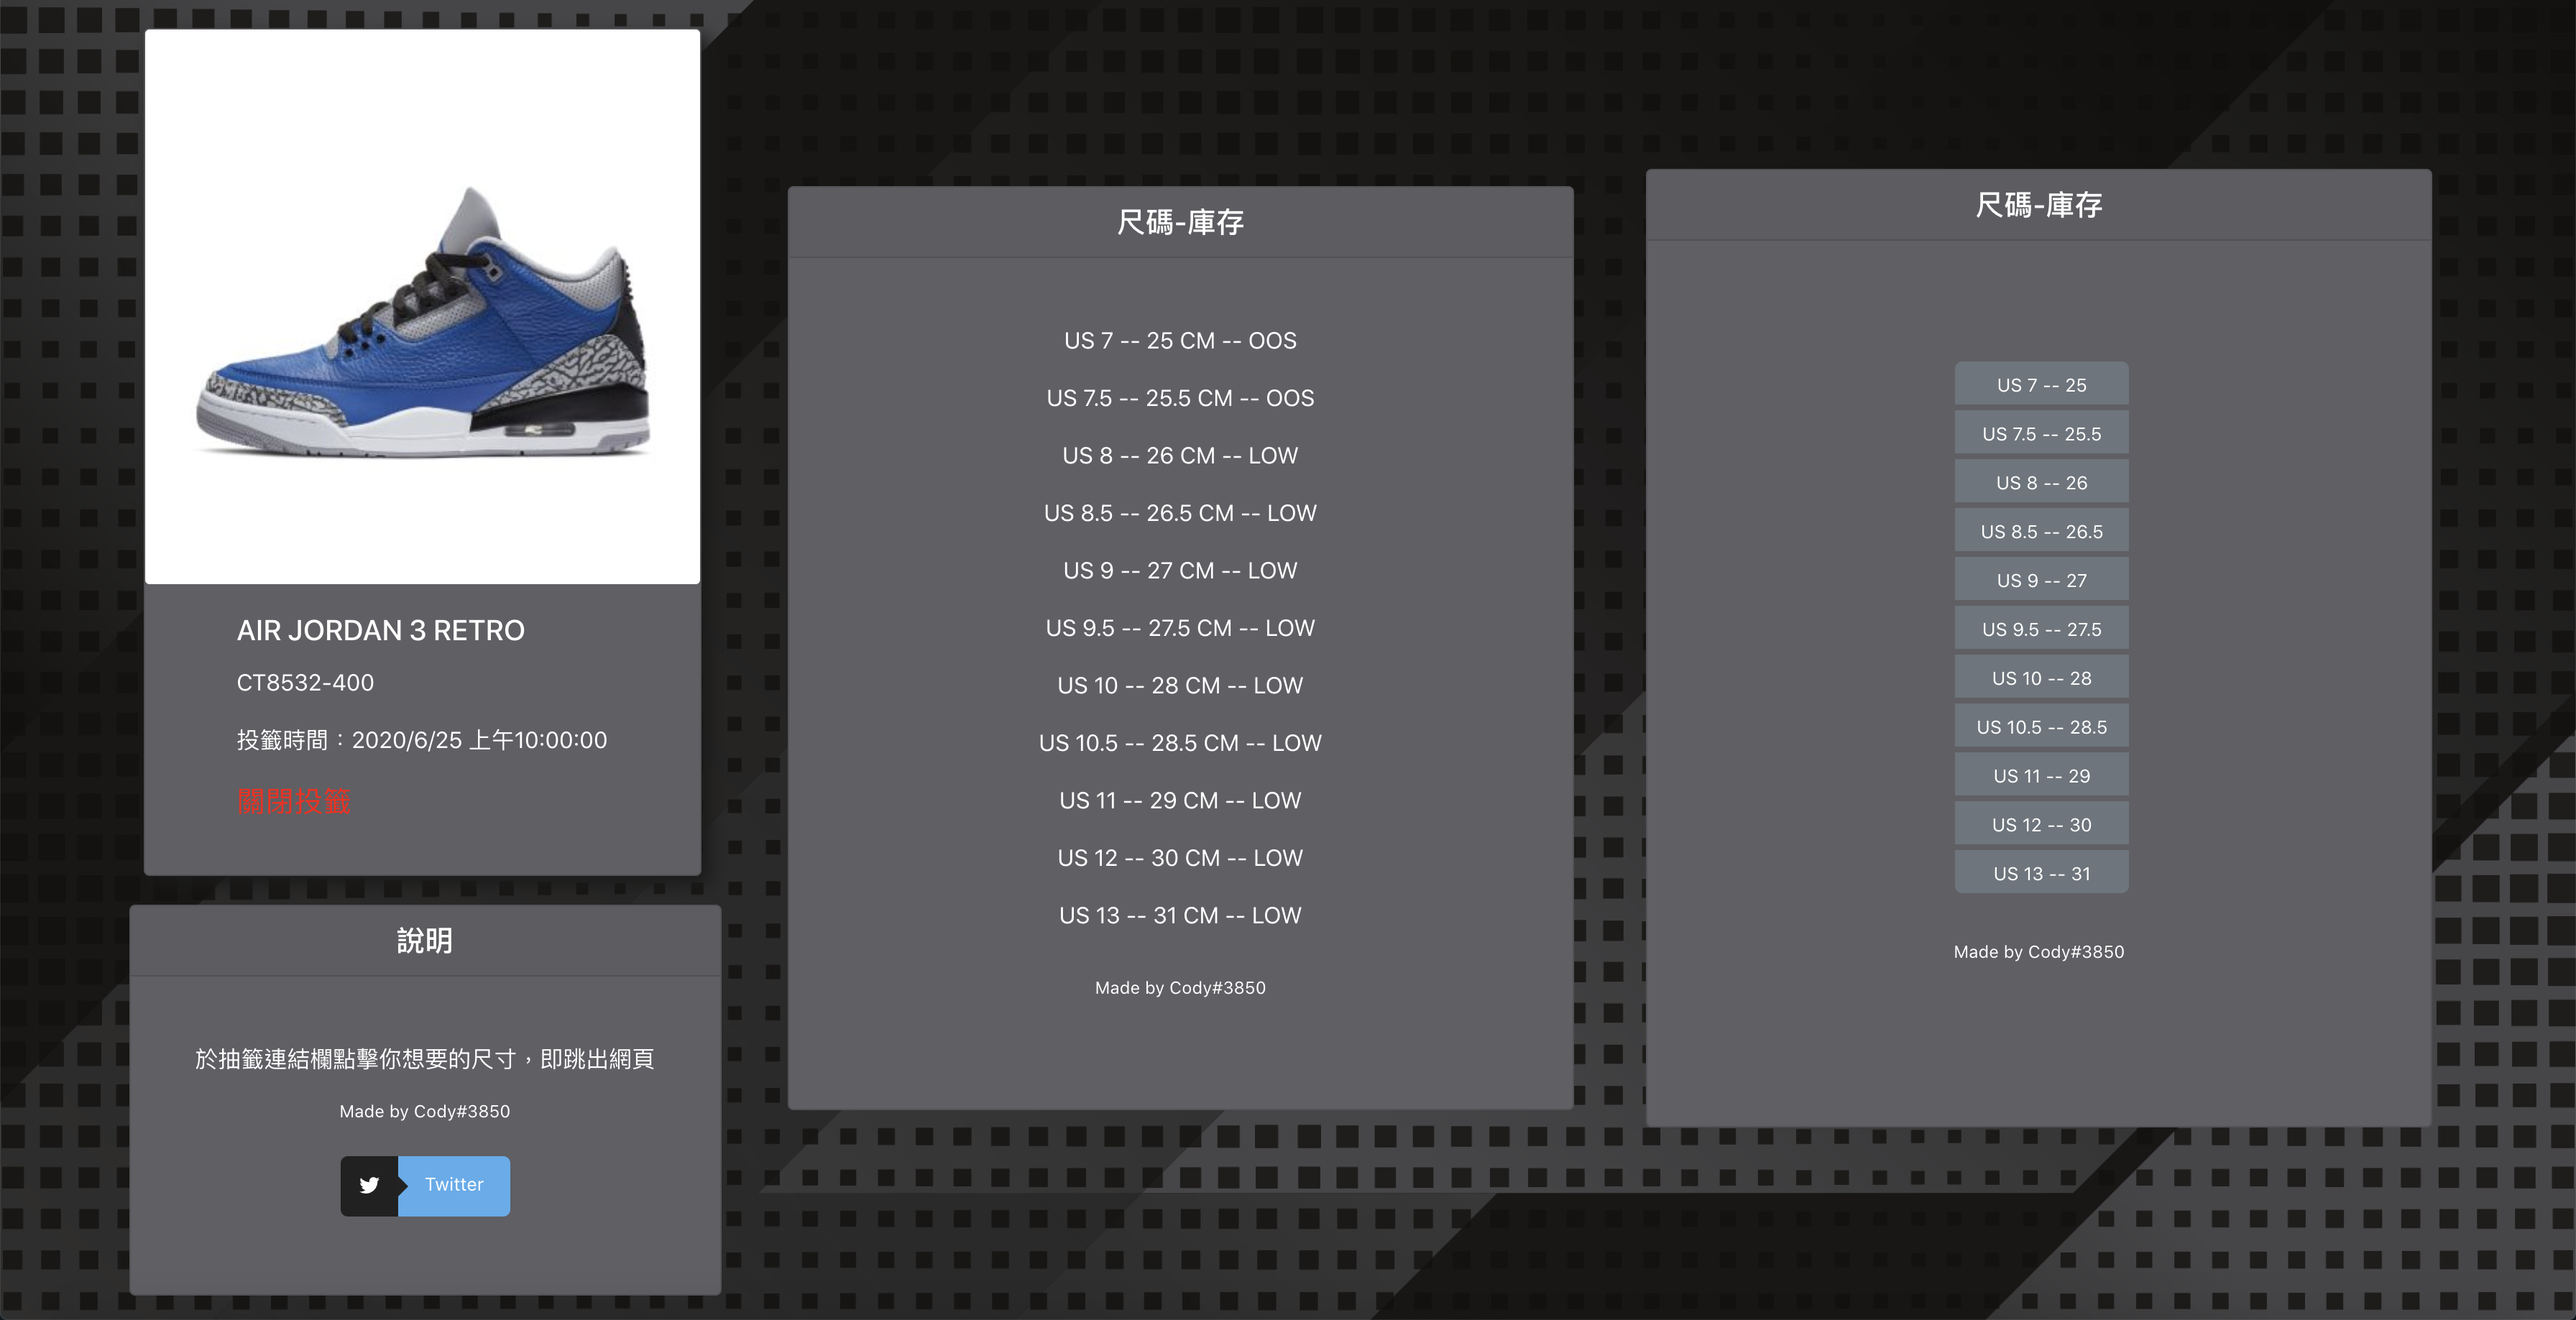
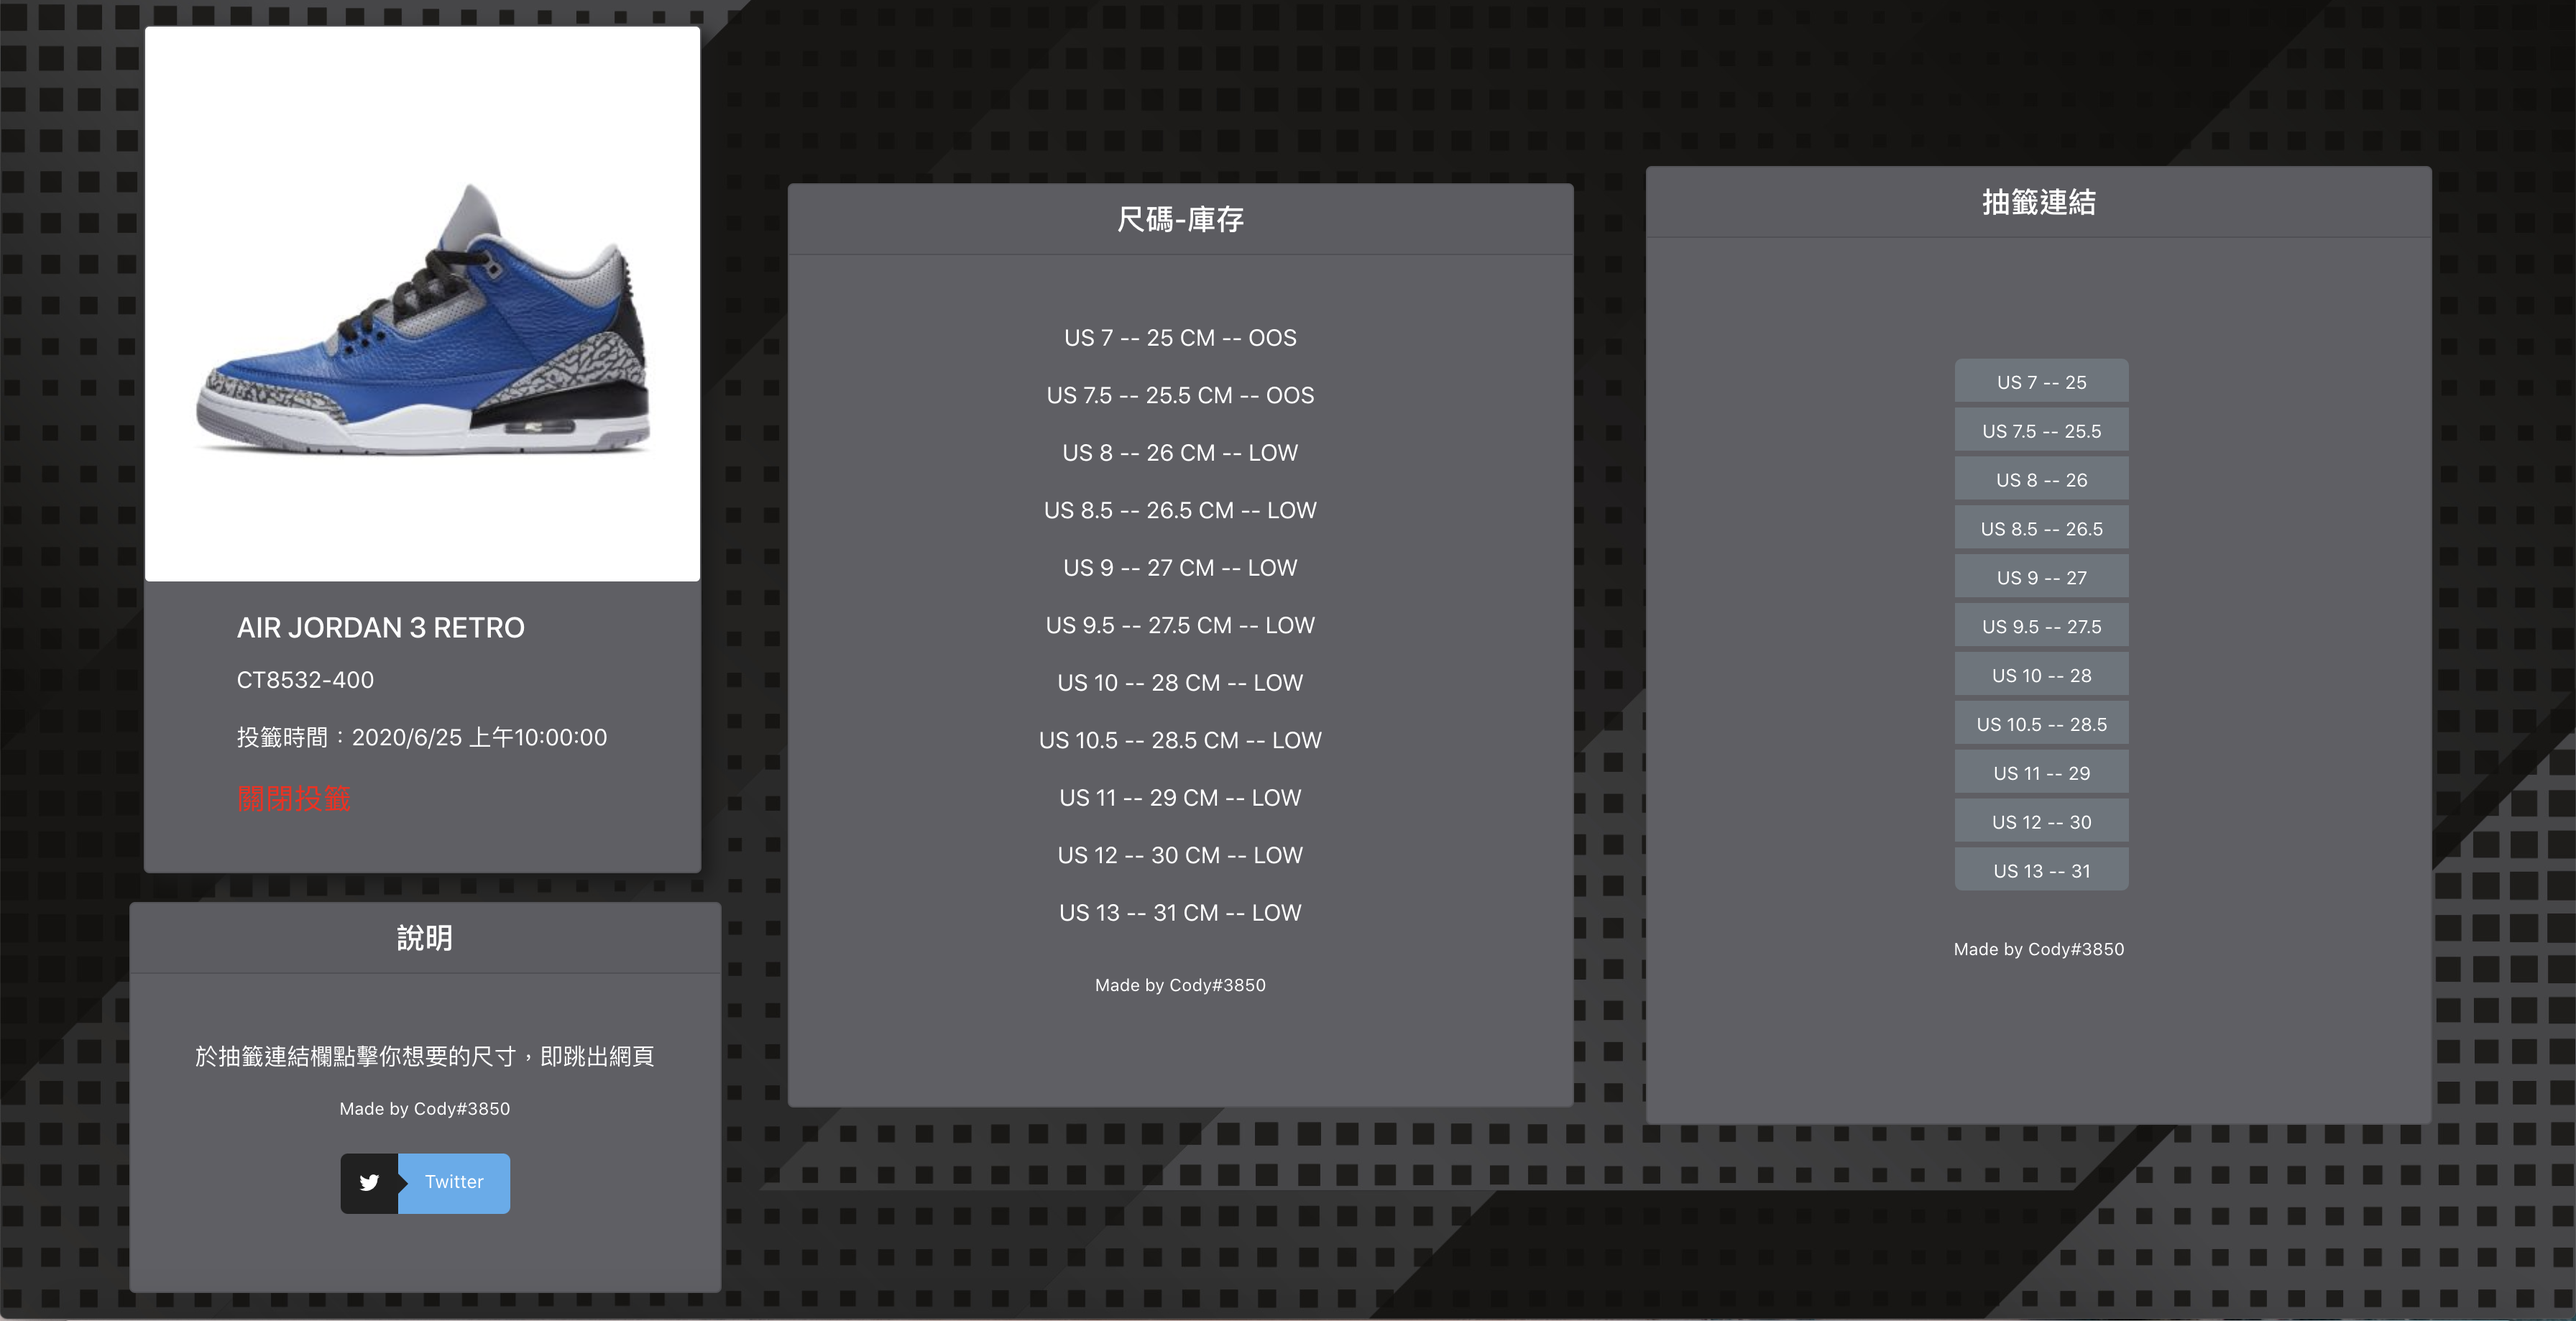
update

diff --git a/src/pages/Stock.js b/src/pages/Stock.js
@@ -166,7 +166,7 @@ function Stock() {
         </div>
         <div className='col-4 justify-content-center align-items-center'>
           <Card className='text-center text-white' style={{ margin: '10px', background: '#5f5f64' }}>
-            <Card.Header as='h5'>尺碼-庫存</Card.Header>
+            <Card.Header as='h5'>抽籤連結</Card.Header>
             <Card.Body style={{ margin: '62px' }}>
               <ButtonGroup vertical>
                 <Gen s={pd} />

diff --git a/README.md b/README.md
@@ -1,12 +1,12 @@
-# SNKRS Gen React Project
+# SNKRS TW Gen React Project
 
 ### 首頁 - 近期即將開放抽籤的鞋款 - 點擊鞋款即可進入詳細頁面
 
-![](SNKRS%20Gen%20React%20Project/Snkr1.png)
+![](Snkr2.png)
 
 ### 詳細頁面 - 包含庫存以及抽籤提早連結
 
-![](SNKRS%20Gen%20React%20Project/Snkr2.png)
+![](Snkr1.png)
 
 ### ＢＵＧ 以及正在處理的問題
 
